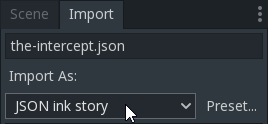
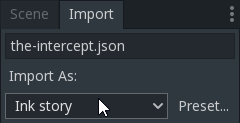
:newspaper: README.md

diff --git a/README.md b/README.md
@@ -2,43 +2,30 @@
 
 An [ink](https://github.com/inkle/ink) integration for [Godot Engine](https://github.com/godotengine/godot).  
 
-### Currently supported features:
-* Running an Ink story and branching with choice indexes
-* Saving and loading Ink state
-* Tags
-* Knot/Stitch jumping
-* Getting/Setting Ink variables (InkLists aren't supported yet)
-* Observing Ink variables (Inklists aren't supported yet)
-* External function bindings
-* Read/Visit counts
-* Story viewer inside the editor
-
-### TODO:
-* Getting/Setting/Observing InkLists
-* On the fly Ink to JSON compilation 
-
 ## How to use
 
 When the plugin is properly loaded, you should be able to use the new ink panel to inspect your story.
 
 ![](inspector_screenshot.png)
 
-You'll need to put `ink-engine-runtime.dll` at the root of your Godot project.
+You'll also see a new `ink` section in your project settings. If you want to be able to compile your .ink files on the fly you can input the path to the inklecate binary here.  
+The last thing you'll need to do in order to get going is to put `ink-engine-runtime.dll` at the root of your Godot project.
 
-Everything revolves around the `Story` node.
+---
 
+Everything is handled in a `Story` node.  
 If nothing is specified, the **C#** usage is the same as the **GDScript** one.
 
 ### Loading the story
 
-First you should navigate to your JSON ink file and import it as a `JSON ink story` in Godot. To do that, select the file in Godot, go to `Import`, select `JSON ink story` under `Import As:` and click `ReImport`.
+First you should navigate to your `.json` or `.ink` file and import it as an `Ink story` in Godot. To do that, select the file in Godot, go to `Import`, select `Ink story` under `Import As:` and click `ReImport`.
 
 ![](import_screenshot.png)
 
 To load your story, you can:
 
-* Point the `InkFile` exported variable to your JSON ink file and check the `AutoLoadStory` checkbox in the inspector.
-* Point the `InkFile` exported variable to your JSON ink file (in the inspector or via a script) and call `story.LoadStory()`.
+* Point the `InkFile` exported variable to your `.json`/`.ink` file and check the `AutoLoadStory` checkbox in the inspector.
+* Point the `InkFile` exported variable to your `.json`/`.ink` file (in the inspector or via a script) and call `story.LoadStory()`.
 
 ### Running the story and making choices
 
@@ -93,7 +80,8 @@ You get and set the json state by calling `.GetState()` and `.SetState(String)`.
 story.SetState(story.GetState())
 ```
 
-Alternatively you can save and load directly from disk (either by passing a path or a file as argument) with `.LoadStateFromDisk` and `.SaveStateOnDisk`.
+Alternatively you can save and load directly from disk (either by passing a path or a file as argument) with `.LoadStateFromDisk` and `.SaveStateOnDisk`.  
+When using a path, the default behaviour is to use the `user://` folder. You can bypass this by passing a full path to the functions (e.g. `res://my_dope_save_file.json`).
 
 ```GDScript
 story.SaveStateOnDisk("save.json")
@@ -178,6 +166,10 @@ If you're having trouble enabling the editor plugin, it's probably because the `
 
 Depending on the version of Godot you're using, you might still have issues with the editor plugin.  
 Do not worry, you don't actually need to enable it to use **godot-ink**. If you don't want to bother with extensive troubleshooting, all you have to do is attach `addons/paulloz.ink/Story.cs` to a node (or use it as a singleton). This node will become the `Story` node for the rest of this documentation.
+
+### TODO:
+* Getting/Setting/Observing InkLists
+* On the fly Ink to JSON compilation (works on Windows, need some tweaking for Linux and Mac OS support)
 
 ## License
 
